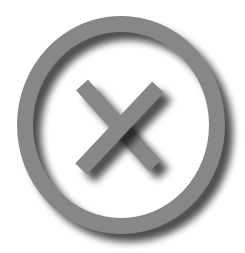
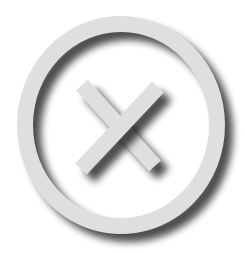
updated AddCard and action button hover effects. updated button graphics

Changed region(s): [[0.0571, 0.0553, 0.9429, 0.9407], [0.3143, 0.3043, 0.6857, 0.6917]]

diff --git a/client/related_products/RelatedProducts.jsx b/client/related_products/RelatedProducts.jsx
@@ -5,7 +5,6 @@ import axios from 'axios';
 import token from '../env/config.js';
 import averageReviewsCalculator from './helperFunctions.js'
 import Stars from './Stars2.jsx';
-import styles from './styles.jsx';
 axios.defaults.headers = {
   'Content-Type': 'application/json',
   Authorization : token
@@ -37,7 +36,9 @@ class CardTemplate extends React.Component {
     this.modalCompareHandler = this.modalCompareHandler.bind(this);
     this.removeOutfitHandler = this.removeOutfitHandler.bind(this);
     this.addToOutfitHandler = this.addToOutfitHandler.bind(this);
-    this.thumbnailCarouselHandler = this.thumbnailCarouselHandler.bind(this)
+    this.thumbnailCarouselHandler = this.thumbnailCarouselHandler.bind(this);
+    this.onMouseEnterColorHandler = this.onMouseEnterColorHandler.bind(this);
+    this.onMouseLeaveColorHandler = this.onMouseLeaveColorHandler.bind(this);
   }
 
   formatData (results) {
@@ -133,12 +134,33 @@ class CardTemplate extends React.Component {
     })
   }
 
-  render () {
+  onMouseEnterColorHandler (e) {
+    if (e.target.className === 'action') {
+      e.target.style.opacity='100%'
+    } else {
+      let card = document.getElementById('addOutfitCard')
+      card.style.opacity='100%';
+    }
+  }
+  onMouseLeaveColorHandler (e) {
+    if (e.target.className === 'action') {
+      e.target.style.opacity='70%'
+    } else {
+      let card = document.getElementById('addOutfitCard')
+      card.style.opacity='50%';
+    }
+  }
 
+  render () {
+    let relatedProductsContainerInlineStyle = {
+      margin: 'auto',
+      width : '920px',
+
+    }
     let cardTitleInlineStyle = {
-      fontFamily : 'Helvetica',
-      fontWeight : 'normal',
-      fontSize : '12px'
+      fontFamily : 'Cormorant',
+      fontWeight : 'bolder',
+      fontSize : '16px'
     }
 
     let carouselInlineStyle = {
@@ -147,9 +169,7 @@ class CardTemplate extends React.Component {
       minHeight: '356.5px',
       display: 'flex',
       flexDirection: 'row',
-      justifyContent: 'flex-start',
-      gap: '100px'
-
+      justifyContent: 'space-between',
     }
 
     let modalCompareButton = "./assets/relatedProductACTION.png"
@@ -164,6 +184,8 @@ class CardTemplate extends React.Component {
           actionButton={modalCompareButton}
           thumbnailCarouselHandler={this.thumbnailCarouselHandler}
           actionButtonHandler={this.modalCompareHandler}
+          onMouseEnterColorHandler={this.onMouseEnterColorHandler}
+          onMouseLeaveColorHandler={this.onMouseLeaveColorHandler}
           outfitAdder={false}
           />)
       }
@@ -173,13 +195,16 @@ class CardTemplate extends React.Component {
           data={product}
           actionButton={removeOutfitButton}
           actionButtonHandler={this.removeOutfitHandler}
+          onMouseEnterColorHandler={this.onMouseEnterColorHandler}
+          onMouseLeaveColorHandler={this.onMouseLeaveColorHandler}
           outfitAdder={false}
           />)
       }
 
     return (
+
     <div>
-      <div>
+      <div className="related-products-container" style={relatedProductsContainerInlineStyle}>
         <div className="related-products-title" style={cardTitleInlineStyle}>
           RELATED PRODUCTS
         </div>
@@ -195,6 +220,8 @@ class CardTemplate extends React.Component {
             key={this.state.dummyCurrentProductData.product_id}
             data={this.state.dummyCurrentProductData}
             addToOutfitHandler={this.addToOutfitHandler}
+            onMouseEnterColorHandler={this.onMouseEnterColorHandler}
+            onMouseLeaveColorHandler={this.onMouseLeaveColorHandler}
             outfitAdder={true}
             />
           {myOutfit}
@@ -212,6 +239,10 @@ class CardTemplate extends React.Component {
 
 const Card = (props) => {
   let wholeCardClick = null;
+  let wholeCardMouseEnter = null
+  let wholeCardMouseLeave = null
+  let actionButtonMouseEnter = props.onMouseEnterColorHandler
+  let actionButtonMouseLeave = props.onMouseLeaveColorHandler
   let thumbnailCarouselHandler = props.thumbnailCarouselHandler || null;
   let actionButtonHandler = props.actionButtonHandler
   let overlayButton = props.actionButton
@@ -240,7 +271,8 @@ const Card = (props) => {
     position: 'absolute',
     top:'5%',
     left:'80%',
-    width: '23px'
+    width: '23px',
+    opacity: '70%'
   }
   let imageInlineStyle = {
     alignSelf: 'center',
@@ -266,46 +298,48 @@ const Card = (props) => {
     justifyContent : 'center',
     fontWeight : 'normal'
   }
+  let ratingInlineStyle = {
+    color : 'white',
+    textAlign : 'center'
+  }
 
   if (props.outfitAdder) {
+    id = "addOutfitCard"
     wholeCardClick = props.addToOutfitHandler;
+    wholeCardMouseEnter = props.onMouseEnterColorHandler;
+    wholeCardMouseLeave = props.onMouseLeaveColorHandler;
+    actionButtonMouseEnter = null
+    actionButtonMouseLeave = null
+    cardInlineStyle.opacity = '50%'
     categoryInlineStyle.textAlign = 'center'
     nameInlineStyle.textAlign = 'center'
-    overlayButton = "./assets/addToOutfit.png"
-    category = 'ADD TO'
-    name = 'OUTFIT'
-    originalPrice = null
+    priceInlineStyle.textAlign = 'center'
+    category = 'ADD'
+    originalPrice = 'TO OUTFIT'
     salePrice = null
     rating = null
 
-    imageContainerInlineStyle.opacity = '50%';
-    actionButtonInlineStyle = {
-      position: 'absolute',
-      top:'00%',
-      width: '200',
-      opacity: '80%'
-    }
+
+
   }
-
   return (
-
-    <div id={id} className="card" style={cardInlineStyle} onClick={wholeCardClick}>
-      <div id={id} className="image-container" style={imageContainerInlineStyle}>
-        <img id={id} className="image" src={props.data.photo || "./images/logo.jpg"} alt="NO THUMBNAIL" style={imageInlineStyle} onClick={thumbnailCarouselHandler}></img>
-        <img id={id} className="action" src={overlayButton} style={actionButtonInlineStyle} onClick={actionButtonHandler}></img>
+    <div id={id} className="card" style={cardInlineStyle} onClick={wholeCardClick} onMouseEnter={wholeCardMouseEnter} onMouseLeave={wholeCardMouseLeave} >
+      <div className="image-container" style={imageContainerInlineStyle}>
+        <img className="image" src={props.data.photo || "./images/logo.jpg"} alt="NO THUMBNAIL" style={imageInlineStyle} onClick={thumbnailCarouselHandler}></img>
+        <img id={id} className="action" src={overlayButton} style={actionButtonInlineStyle} onClick={actionButtonHandler} onMouseEnter={actionButtonMouseEnter} onMouseLeave={actionButtonMouseLeave}></img>
       </div>
-      <div id={id} className="product-info" style={productInfoInlineStyle}>
-        <div id={id} className="category" style={categoryInlineStyle}>
+      <div className="product-info" style={productInfoInlineStyle}>
+        <div className="category" style={categoryInlineStyle}>
           {category}
         </div>
-        <div id={id} className="name" style={nameInlineStyle}>
+        <div className="name" style={nameInlineStyle}>
           {name}
         </div>
-        <div id={id} className="price" style={priceInlineStyle}>
+        <div className="price" style={priceInlineStyle}>
           {originalPrice}
           {salePrice}
         </div>
-        <div id={id} className="rating">
+        <div className="rating" style={ratingInlineStyle}>
           <Stars rating={rating}/>
         </div>
       </div>

diff --git a/client/related_products/Stars2.jsx b/client/related_products/Stars2.jsx
@@ -40,7 +40,7 @@ const Stars = (props) => {
     let rating = props.rating
     if (rating === null) {
       return (
-        <div></div>
+        <div>-----</div>
       )
     }
     let stars = [];
